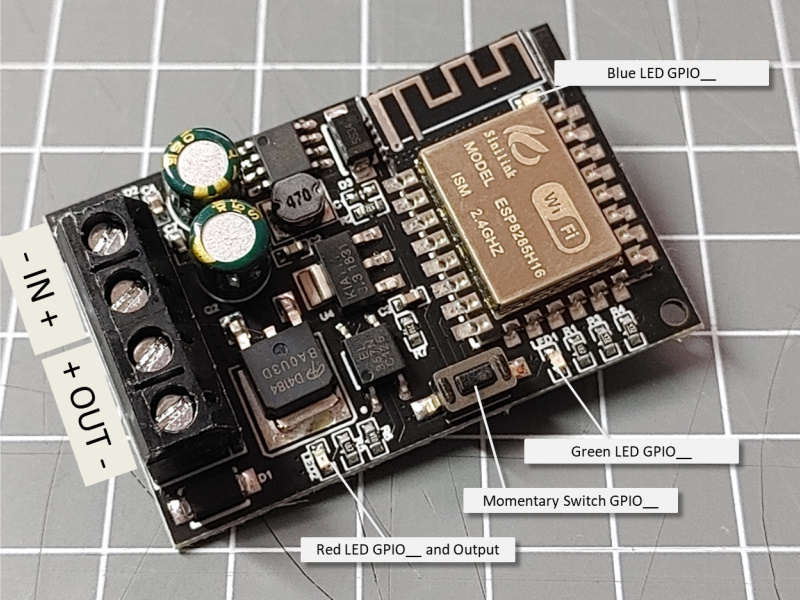
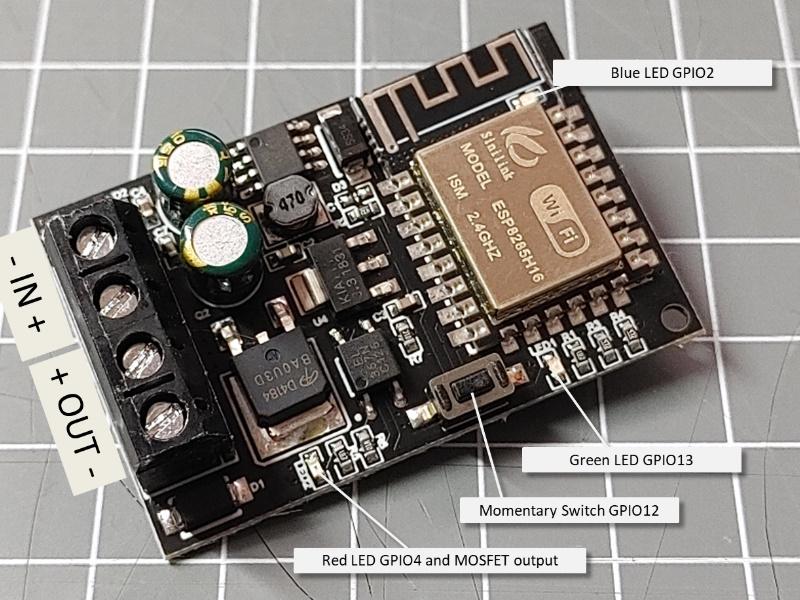
doku

diff --git a/elements/color.md b/elements/color.md
@@ -4,8 +4,9 @@ id: color
 tags: ["Element"]
 description: Support Color values for light controlling elements. 
 excerpt: >
-  The Color Element allows defining a value for a light emitting element using the
-  xRRGGBB or xWWRRGGBB format by providing a special UI.
+  The Color Element allows controlling a value for a light emitting element using the
+  color values in the xrrggbb or xwwrrggbb format and brightness 0..100.
+  A special Web UI is available.
 ---
 
 # {{data.title}}
@@ -26,11 +27,14 @@ There is a dedicated card for this element that allows controlling the value usi
 
 ![Color Element Web UI](/elements/colorui.png)
 
-This card has 3 to 4 sliders
-* select the hue of the color
-* select the saturation of the color
-* select the lightness of the color
-* select white value of the color in WRGB mode.
+The Web UI of the color element includes:
+* Output of the current value in string notation and as a color element.
+* The color element can be clicked to select a new color using a standart input[type=color] element.
+* A slider to control the white part of the color value separately.
+* A slider to control the overall brightness.
+* Buttons to control the mode. 
+
+The slider for the white part of the value is only shown in `WRGB` mode.
 
 The color value and the effective color from the sliders 1-3 is shown above the hue slider
 while the white value from the sliders 4 is not shown.
@@ -41,22 +45,41 @@ while the white value from the sliders 4 is not shown.
 
 The following properties are available for configuration of the element.
 
-**mode** - The effect to be used. possible values are fix, fade, wheel and pulse. default is "fix"
+**config** - The color can be set to `RGB` or `WRGB` to include the white part in the value. Default is `RGB`.
 
-**value** - Is used to set the actual color. not applicable in mode = "wheel". Color values can also be passed using some names like `red,blue,green,white` . See explanation for `Color mode` below. 
+**mode** - The effect to be used. possible values are `fix`, `fade`, `wheel` and `pulse`.
+The default setting is is `fix`.
+See explanation for `Color mode` below. 
 
-**duration** - This parameter is used to specify the time for a transition in mode "fade", "wheel" and "pulse".
+**value** - Is used to set the new color value in mode `fix` or `fade`.
 
-**saturation** - This parameter is used to specify the saturation of the actual color and the colors in effects.
+**duration** - This parameter is used to specify the time for a transition in mode `fade`, `wheel` and `pulse`.
 
-**lightness** - This parameter is used to specify the lightness of the actual color and the colors in effects.
+**brightness** - This parameter is used to specify the overall brightness of a light as a factor to the given color value
+and effects.
 
 **onValue** - These actions are send when the value has changed.
+
+**onBrightness** - These actions are send when the brightness has changed.
+
+
+From the base element implementation the following properties are available for configuration:
+
+**title** - Caption text for the element. Used in the boards.
+
+**description** - A line of text that gives a short description of the device used in the web UI.
+
+**loglevel** - This property holds the element specific log level. The default value is LOGGER_LEVEL_ERR == 1. 
+
+<!-- 
+TODO:
+**useState** - This configuration can be set to true to persist the current color and brightness values in the state memory.
+-->
 
 
 ## Colors
 
-Colors can be specified by the notation xWWRRGGBB or xRRGGBB sililar to the web color values.
+Colors can be specified by the notation xWWRRGGBB or xRRGGBB similar to the web color values.
 
 Some fix names are supported:
 
@@ -72,8 +95,6 @@ Some fix names are supported:
 This mode is activated by setting the `mode` property to `wheel`.
 
 In this mode the color is changing slowly through all colors of the RGB by changing the **hue** value.
-
-The **saturation** and **lightness** is used to convert from hsl to rgb.
 
 The **duration** parameter is used to specify the number you of milliseconds for a complete cycle.
 

diff --git a/elements/ota.md b/elements/ota.md
@@ -14,27 +14,25 @@ excerpt: >
 :::
 
 The OTAElement enables the upload of new sketch versions to the device over the network using the standard Arduino network based upload procedure. When this element is configured the device shows up in the list of ports in the Arduino programming environment.
- 
+
 The OTAElement is a system element to enable this functionality only. It cannot send or receive actions.
 
 It uses the mDNS implementation to advertise the device for being reachable for updates.
 Since the OTA Element initializes the mDNS protocol to register on the network no mDNS library needs to be used and initiated explicitly.
 
 > ---
-> Over The Air (OTA) updates require that a sketch is already uploaded to the device that supports receiving updates. 
+>
+> Over The Air (OTA) updates require that a sketch is already uploaded to the device that supports receiving updates.
 > Also the memory layout and especially the size of the SPIFFS space cannot be changed using this method.
-> 
+>
 > The first upload must be done using the USB cable.
-> 
+>
 > ---
-
 
 ## Uploading tools
 
 If you use the Arduino IDE the device will show up in the list of ports.
 The underlying thing is a python script that can be used directly as well.
-
-
 
 ## Upload batch
 
@@ -44,19 +42,18 @@ To use this tool you need to install Python 3 on your computer as well.
 This script will push an OTA update to the ESP
 
 ```
-python.exe %LOCALAPPDATA%\Arduino15\packages\esp8266\hardware\esp8266\2.7.1\tools\espota.py -i %devicename% -p 8266 --auth=123 -f ..\temp\DevDing.ino.bin 
+python.exe %LOCALAPPDATA%\Arduino15\packages\esp8266\hardware\esp8266\2.7.1\tools\espota.py -i %devicename% -p 8266 --auth=123 -f ..\temp\DevDing.ino.bin
 ```
+
 (the version number and path to the ers8266 tools may vary)
 
-
-use it like: 
+use it like:
 
     python3 espota.py -i <ESP_IP_address> -I <Host_IP_address> -p <ESP_port> -P <Host_port> [-a password] -f <sketch.bin>
 
 or to upload a SPIFFS image:
 
     python3 espota.py -i <ESP_IP_address> -I <Host_IP_address> -p <ESP_port> -P <HOST_port> [-a password] -s -f <spiffs.bin>
-
 
 ## Example Configuration
 
@@ -74,9 +71,19 @@ or to upload a SPIFFS image:
 
 ## See also
 
-* [safemode](../safemode.md)
-* Hardening the IoT device: https://arduino-esp8266.readthedocs.io/en/latest/ota_updates/readme.html
-
+- [safemode](../safemode.md)
+- Hardening the IoT device: https://arduino-esp8266.readthedocs.io/en/latest/ota_updates/readme.html
 
 ## Tags
+
 #element #system
+
+<!--
+
+## TODO:signed firmware
+
+- <https://www.mischianti.org/2021/10/02/esp8266-flash-compiled-and-signed-firmware-bin-1/>
+- <https://www.mischianti.org/2022/01/09/esp8266-self-ota-update-in-https-ssl-tls-with-trusted-self-signed-certificate-3/>
+
+
+-->

diff --git a/boards/sinilink-fet.md b/boards/sinilink-fet.md
@@ -12,15 +12,13 @@ The espressif module uses the same processor from the EPS8266 and includes an in
 
 ## Pins in use
 
-red LED
+**GPIO2(D4)** - The ESP8285 module has a blue LED that can be switched on by pulling the GPIO2(D4) to LOW.
 
-green LED
+**GPIO4(D2)** - The red LED and the MOSFET are activated by a HIGH signal on the GPIO4(D2) pin.
 
-blue LED
+**GPIO13(D7)** - The green LED is activated by a HIGH signal on the GPIO13(D7) pin.
 
-momentary switch
-
-output
+**GPIO12(D6)** - The momentary switch pulls the GPIO12(D6) to LOW.
 
 
 * <https://www.espressif.com/sites/default/files/documentation/0a-esp8285_datasheet_en.pdf>
@@ -28,8 +26,17 @@ output
 
 ## Setup and Upload
 
-The ESP8285 modules are supported as Generic ESP8285 Modules by the Arduino environment and you can choose 2MByte Flash Size.
+The ESP8285 modules are supported as Generic ESP8285 Modules by the Arduino environment and can use the 2MByte flash size with 1MByte filesystem.
+
+The full standard example can be flashed.
+
+
+## Flashing the first time
 
 As there is no USB bridge available a external USB adapter has to be used for flashing the firmware for the first time.
+
+I manages this by attaching the 5 signals GND, 3V3, TX and RX to a USB-Serial adapter. The GPIO0 must be pulled to GND while powering up the board. 
+
+After flashing a first firmware the OTA Update can be used.
 
 
